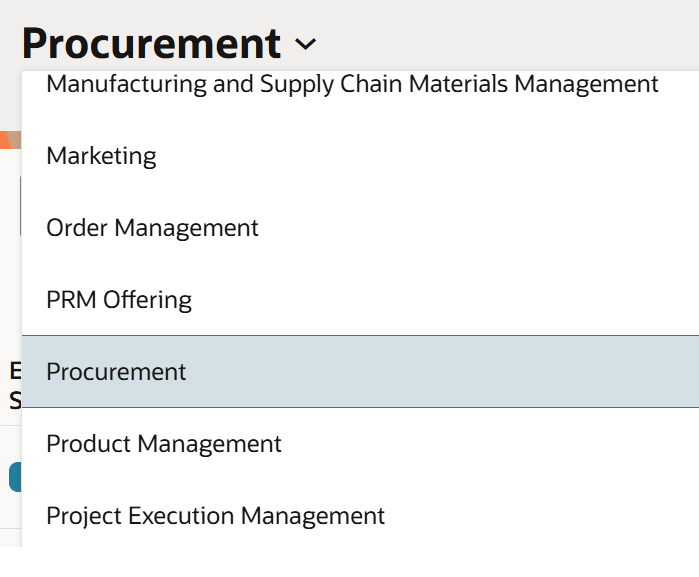
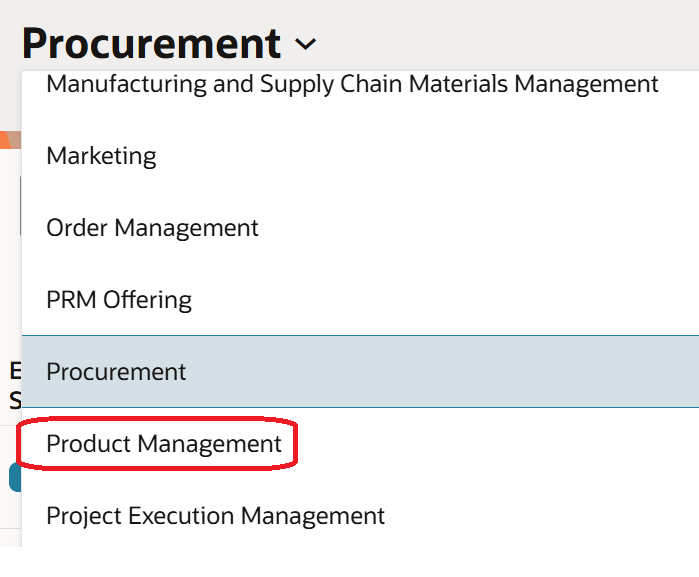
May 13 evening
May 13 evening changes

Changed region(s): [[0.0, 0.7175, 0.4506, 0.8423]]

diff --git a/oic-gen3/core-competencies/healthcare/scm-to-ehr-item-sync/configure-scm/configure-scm.md b/oic-gen3/core-competencies/healthcare/scm-to-ehr-item-sync/configure-scm/configure-scm.md
@@ -88,7 +88,8 @@ Before starting this lab, ensure that:
 8. Verify that the publication maps and filters required for Oracle Health integration are configured correctly.
 9. Click Save and Close after reviewing the configuration.
 10. Validation
-Verify that:
+
+    Verify that:
     - The Oracle Health spoke system exists.
     - Publication maps are assigned correctly.
     - Required item classes are included.
@@ -112,7 +113,8 @@ Verify that:
     - Organization Assignments
 7. Confirm that the item classes are configured correctly for Oracle Health spoke system publication.
 8. Validation
-Verify that:
+
+    Verify that:
     - Required item classes exist.
     - Attribute groups are configured correctly.
     - Required attributes are enabled.
@@ -188,7 +190,8 @@ Verify that:
 2. Confirm publication attributes are enabled.
 3. Verify organization assignment is configured correctly.
 4. Validation
-Verify that:
+
+    Verify that:
     - The required item exists.
     - The item is assigned to the correct organization.
     - The item class is configured correctly.
@@ -214,7 +217,8 @@ Verify that:
     - Effective Dates
 10. Click Save and Close.
 11. Validation
-Verify that:
+
+    Verify that:
     - The Trading Partner Item is configured successfully.
     - The manufacturer matches the Oracle Health EHR configuration.
     - The item relationship is active and valid.